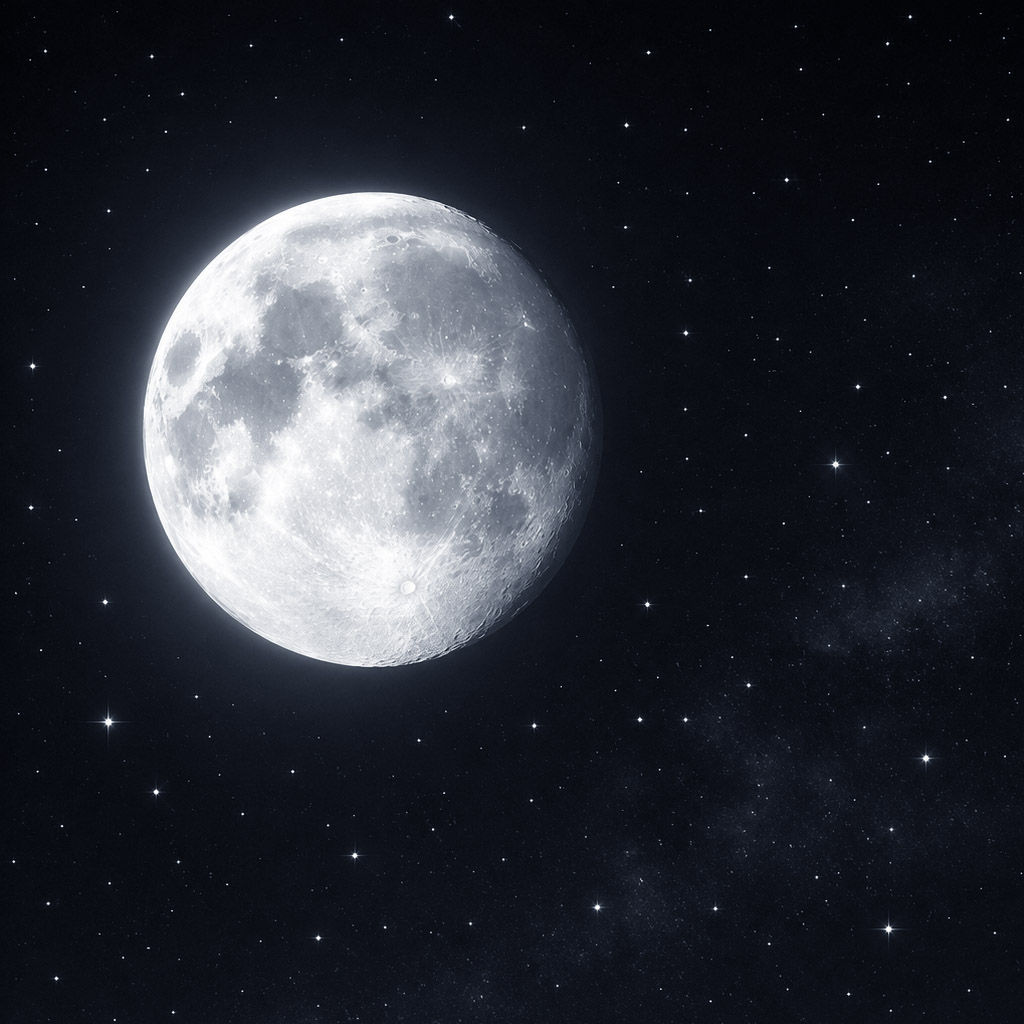
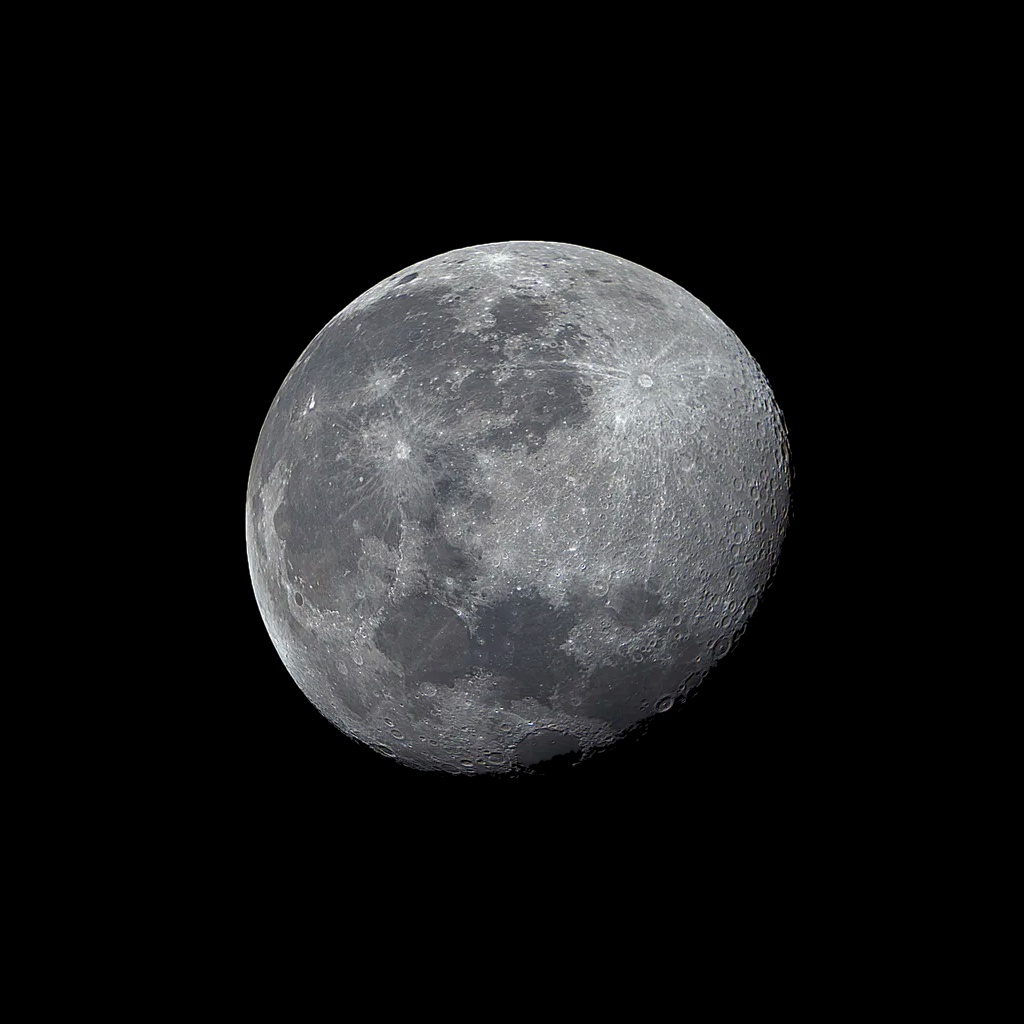
Default wallpaper: the moon centred on black

diff --git a/Docs/TEST-PLAN.md b/Docs/TEST-PLAN.md
@@ -479,8 +479,7 @@ is.
       ran (94020K -> 122880K).
 - [ ] Default wallpaper present — *automated*
 - [ ] Default wallpaper looks right on screen: from 3.2.0 it is the moon
-      (`28.jpg`). The moon sits left of centre, so check **portrait** as
-      well as landscape: its left edge is close to the portrait crop
+      (`28.jpg`), centred on black. Check **portrait** as well as landscape
 - *Known/accepted:* `/media/internal` **accumulates** — the customization service
   only copies in, never removes. Upgrading from an older CE build leaves the old
   `NN.png` wallpapers beside the new `.jpg` set. Decision: do not delete from the
